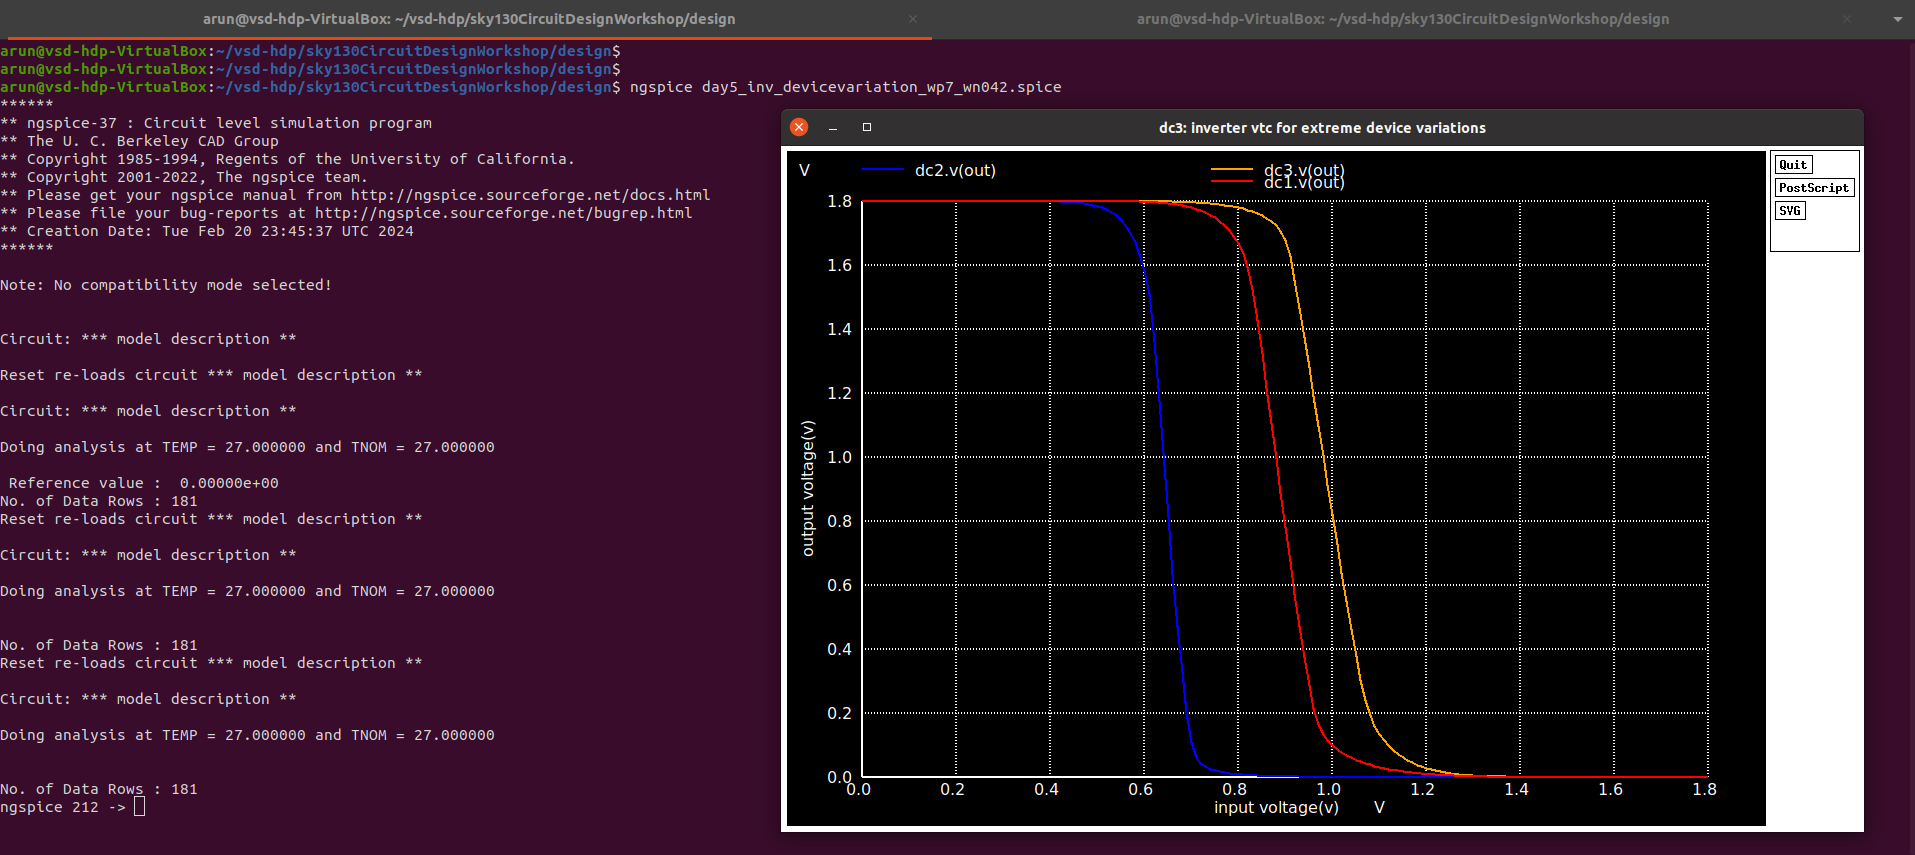
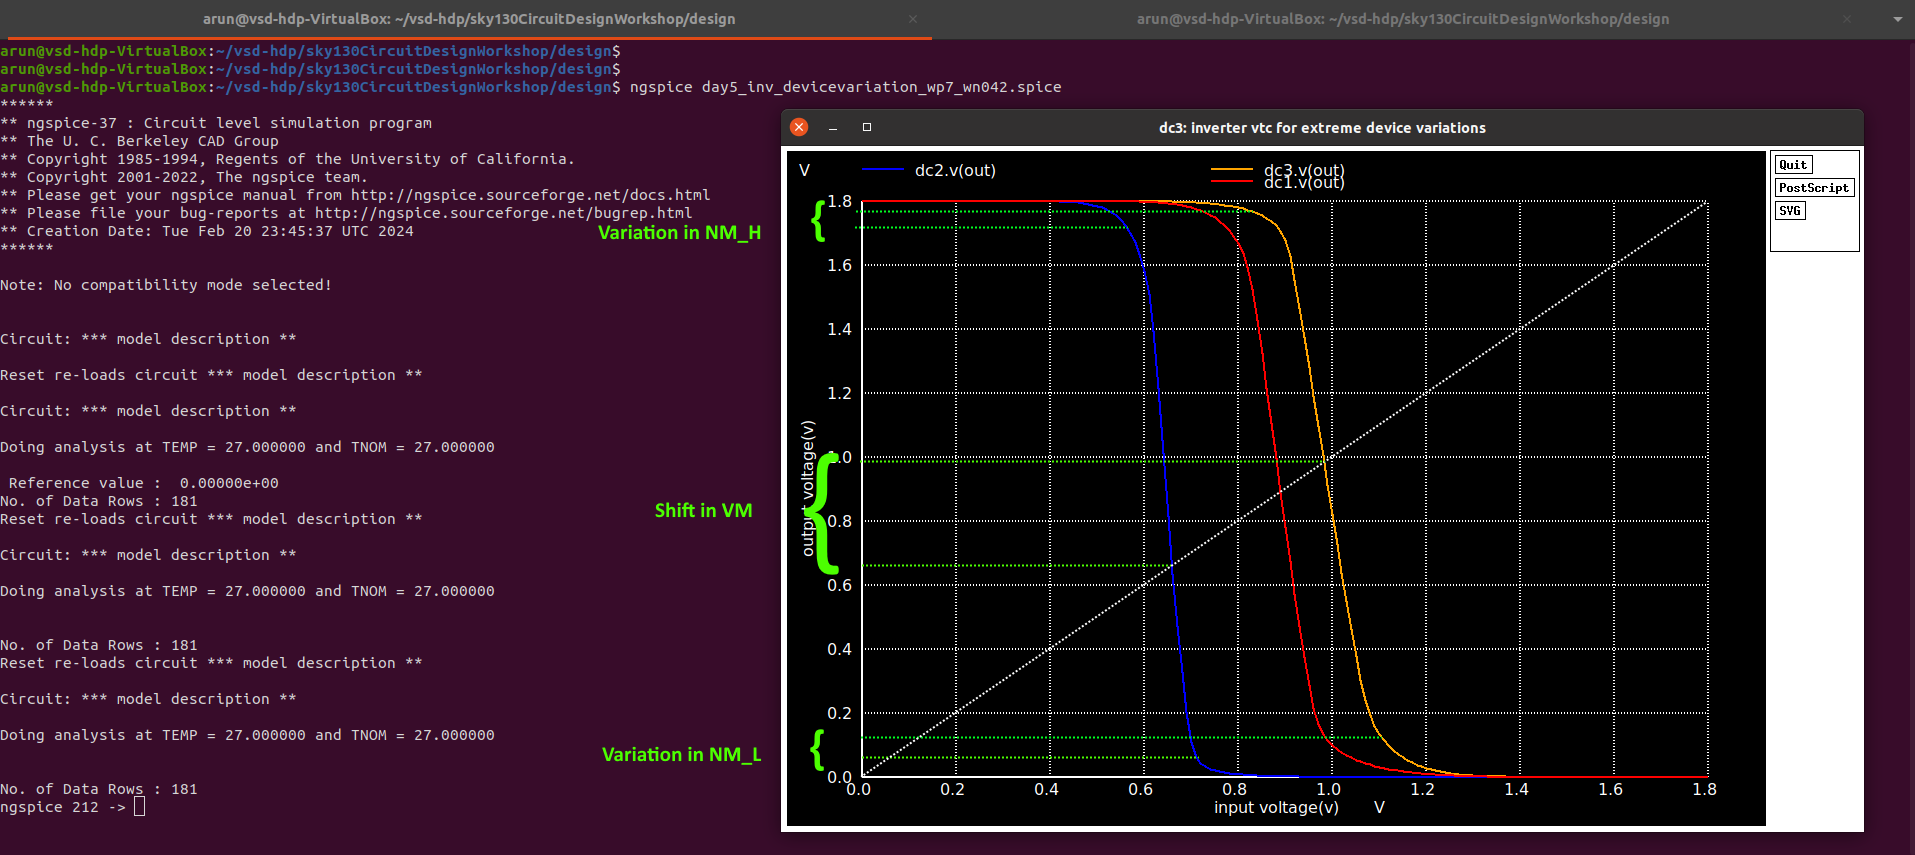
Update Day18

diff --git a/docs/Day_18.md b/docs/Day_18.md
@@ -62,7 +62,7 @@ However, given these improvements in DC characteristics, we cannot choose to ope
 | ![CircuitDesignWorkshop_D5_CMOS_Inverter_Robustness_SupplyVariation](/docs/images/CircuitDesignWorkshop/CircuitDesignWorkshop_D5_CMOS_Inverter_Robustness_SupplyVariation.png) |
 |:---|
 
-## 18.2 Static Behaviour Robustness: (3) Device Variations
+## 18.2 Static Behaviour Robustness: (4) Device Variations
 
 While we design a gate for nominal operation conditions and typical device parameters, the actual operating temperatures might very over a large range, and the device parameters after fabrication will deviate from the nominal values used in the design process.
 
@@ -79,7 +79,13 @@ The DC characteristics of the static CMOS inverter turn out to be rather insensi
 |:---|
 | ![CircuitDesignWorkshop_D5_CMOS_Inverter_Robustness_DeviceVariations_4](/docs/images/CircuitDesignWorkshop/CircuitDesignWorkshop_D5_CMOS_Inverter_Robustness_DeviceVariations_4.png) |
 
-### 18.2.2 Lab - Device Variations - sky130
+### 18.2.2 Lab - Device Variations - sky130 Inverter - (Wp:7u --> 0.42u, Wn:0.36u --> 7u, L=0.15u)
+
+In this exercise, we try to capture the CMOS Inverter's robustness in the case of a ridiculously extreme case of device width variation.
+
+| ![CircuitDesignWorkshop_D5_CMOS_Inverter_Robustness_DeviceVariations_5](/docs/images/CircuitDesignWorkshop/CircuitDesignWorkshop_D5_CMOS_Inverter_Robustness_DeviceVariations_5.png) |
+|:---|
+
 <details> <summary> SPICE File: day5_inv_devicevariation_wp7_wn042.spice </summary>
 
 ```
@@ -124,7 +130,7 @@ plot dc1.V(out) dc2.V(out) dc3.V(out) vs in
 ```
 </details>
 
-| **Output:** <br>  ![CircuitDesignWorkshop_D5_sky130_CMOS_Inv_DeviceVariations](/docs/images/CircuitDesignWorkshop/CircuitDesignWorkshop_D5_sky130_CMOS_Inv_DeviceVariations.png) |
+| **Output:** <br>  **(1)** The shift in $V_M$ for such a large change in device variations is relatively very small. <br>  **(2)** The variation in the $NM_H$ and $NM_L$ ![CircuitDesignWorkshop_D5_sky130_CMOS_Inv_DeviceVariations](/docs/images/CircuitDesignWorkshop/CircuitDesignWorkshop_D5_sky130_CMOS_Inv_DeviceVariations.png) |
 |:---|
 
 <br>
